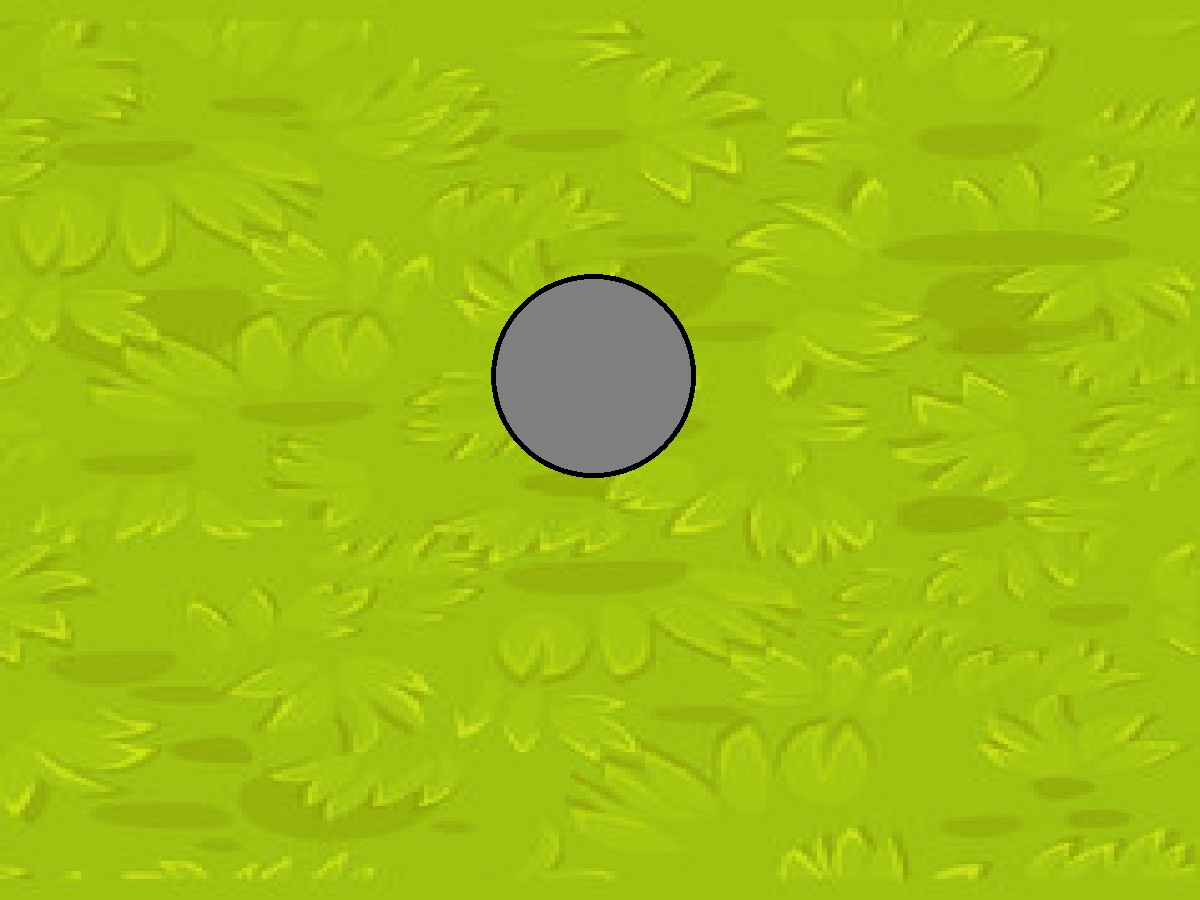
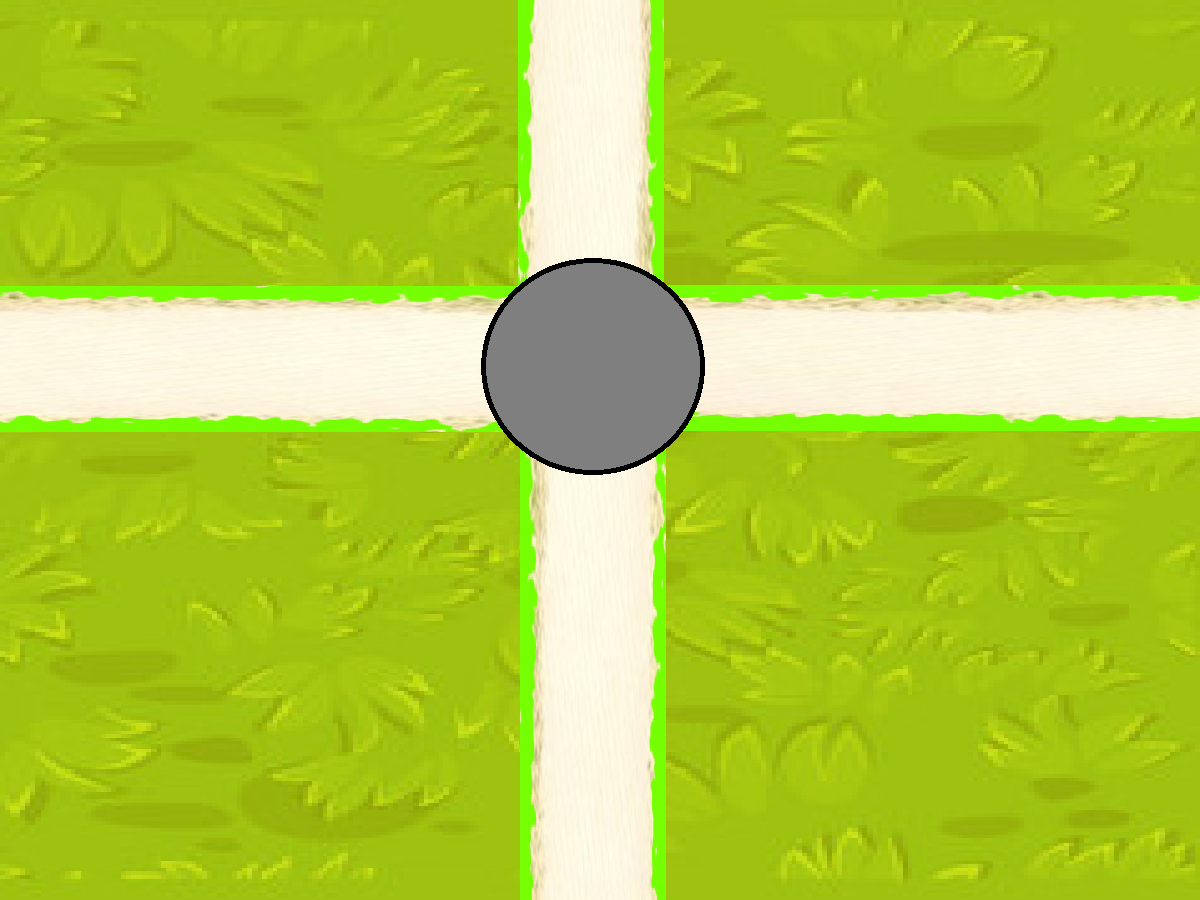
RAT

Changed region(s): [[0.0, 0.0, 1.0, 0.4978], [0.4317, 0.4978, 0.555, 1.0]]

diff --git a/desktop/src/com/mygdx/game/desktop/PowerupScreen.java b/desktop/src/com/mygdx/game/desktop/PowerupScreen.java
@@ -6,6 +6,7 @@ import com.badlogic.gdx.Screen;
 import com.badlogic.gdx.graphics.Color;
 import com.badlogic.gdx.graphics.GL20;
 import com.badlogic.gdx.graphics.OrthographicCamera;
+import com.badlogic.gdx.graphics.Texture;
 import com.badlogic.gdx.graphics.g2d.BitmapFont;
 import com.badlogic.gdx.graphics.g2d.SpriteBatch;
 import com.badlogic.gdx.scenes.scene2d.InputEvent;
@@ -27,6 +28,8 @@ import com.badlogic.gdx.utils.viewport.ScreenViewport;
         private TextButton backbutton;
         private TextButton buttonLevel2;
         private PlayerData Data;
+        private Texture achtergrond;
+        private SpriteBatch batch;
 
         private Stage stage;
         private Table tabel;
@@ -36,6 +39,7 @@ import com.badlogic.gdx.utils.viewport.ScreenViewport;
             this.game = game;
             this.Data = data;
             stage = new Stage(new ScreenViewport());
+            batch = new SpriteBatch();
 
             cam = new OrthographicCamera();
             cam.setToOrtho(false, 1200, 900);
@@ -96,13 +100,14 @@ import com.badlogic.gdx.utils.viewport.ScreenViewport;
 
             Gdx.input.setInputProcessor(stage);
 
-
+            achtergrond = new Texture(Gdx.files.internal("ratAchtergrond.png"));
 
         }
 
         public void render(float delta){
-            Gdx.gl.glClearColor(0, 0, 255,0);
-            Gdx.gl.glClear(GL20.GL_COLOR_BUFFER_BIT);
+            batch.begin();
+            batch.draw(achtergrond,0,0);
+            batch.end();
             sprite.begin();
             sprite.end();
             stage.draw();
